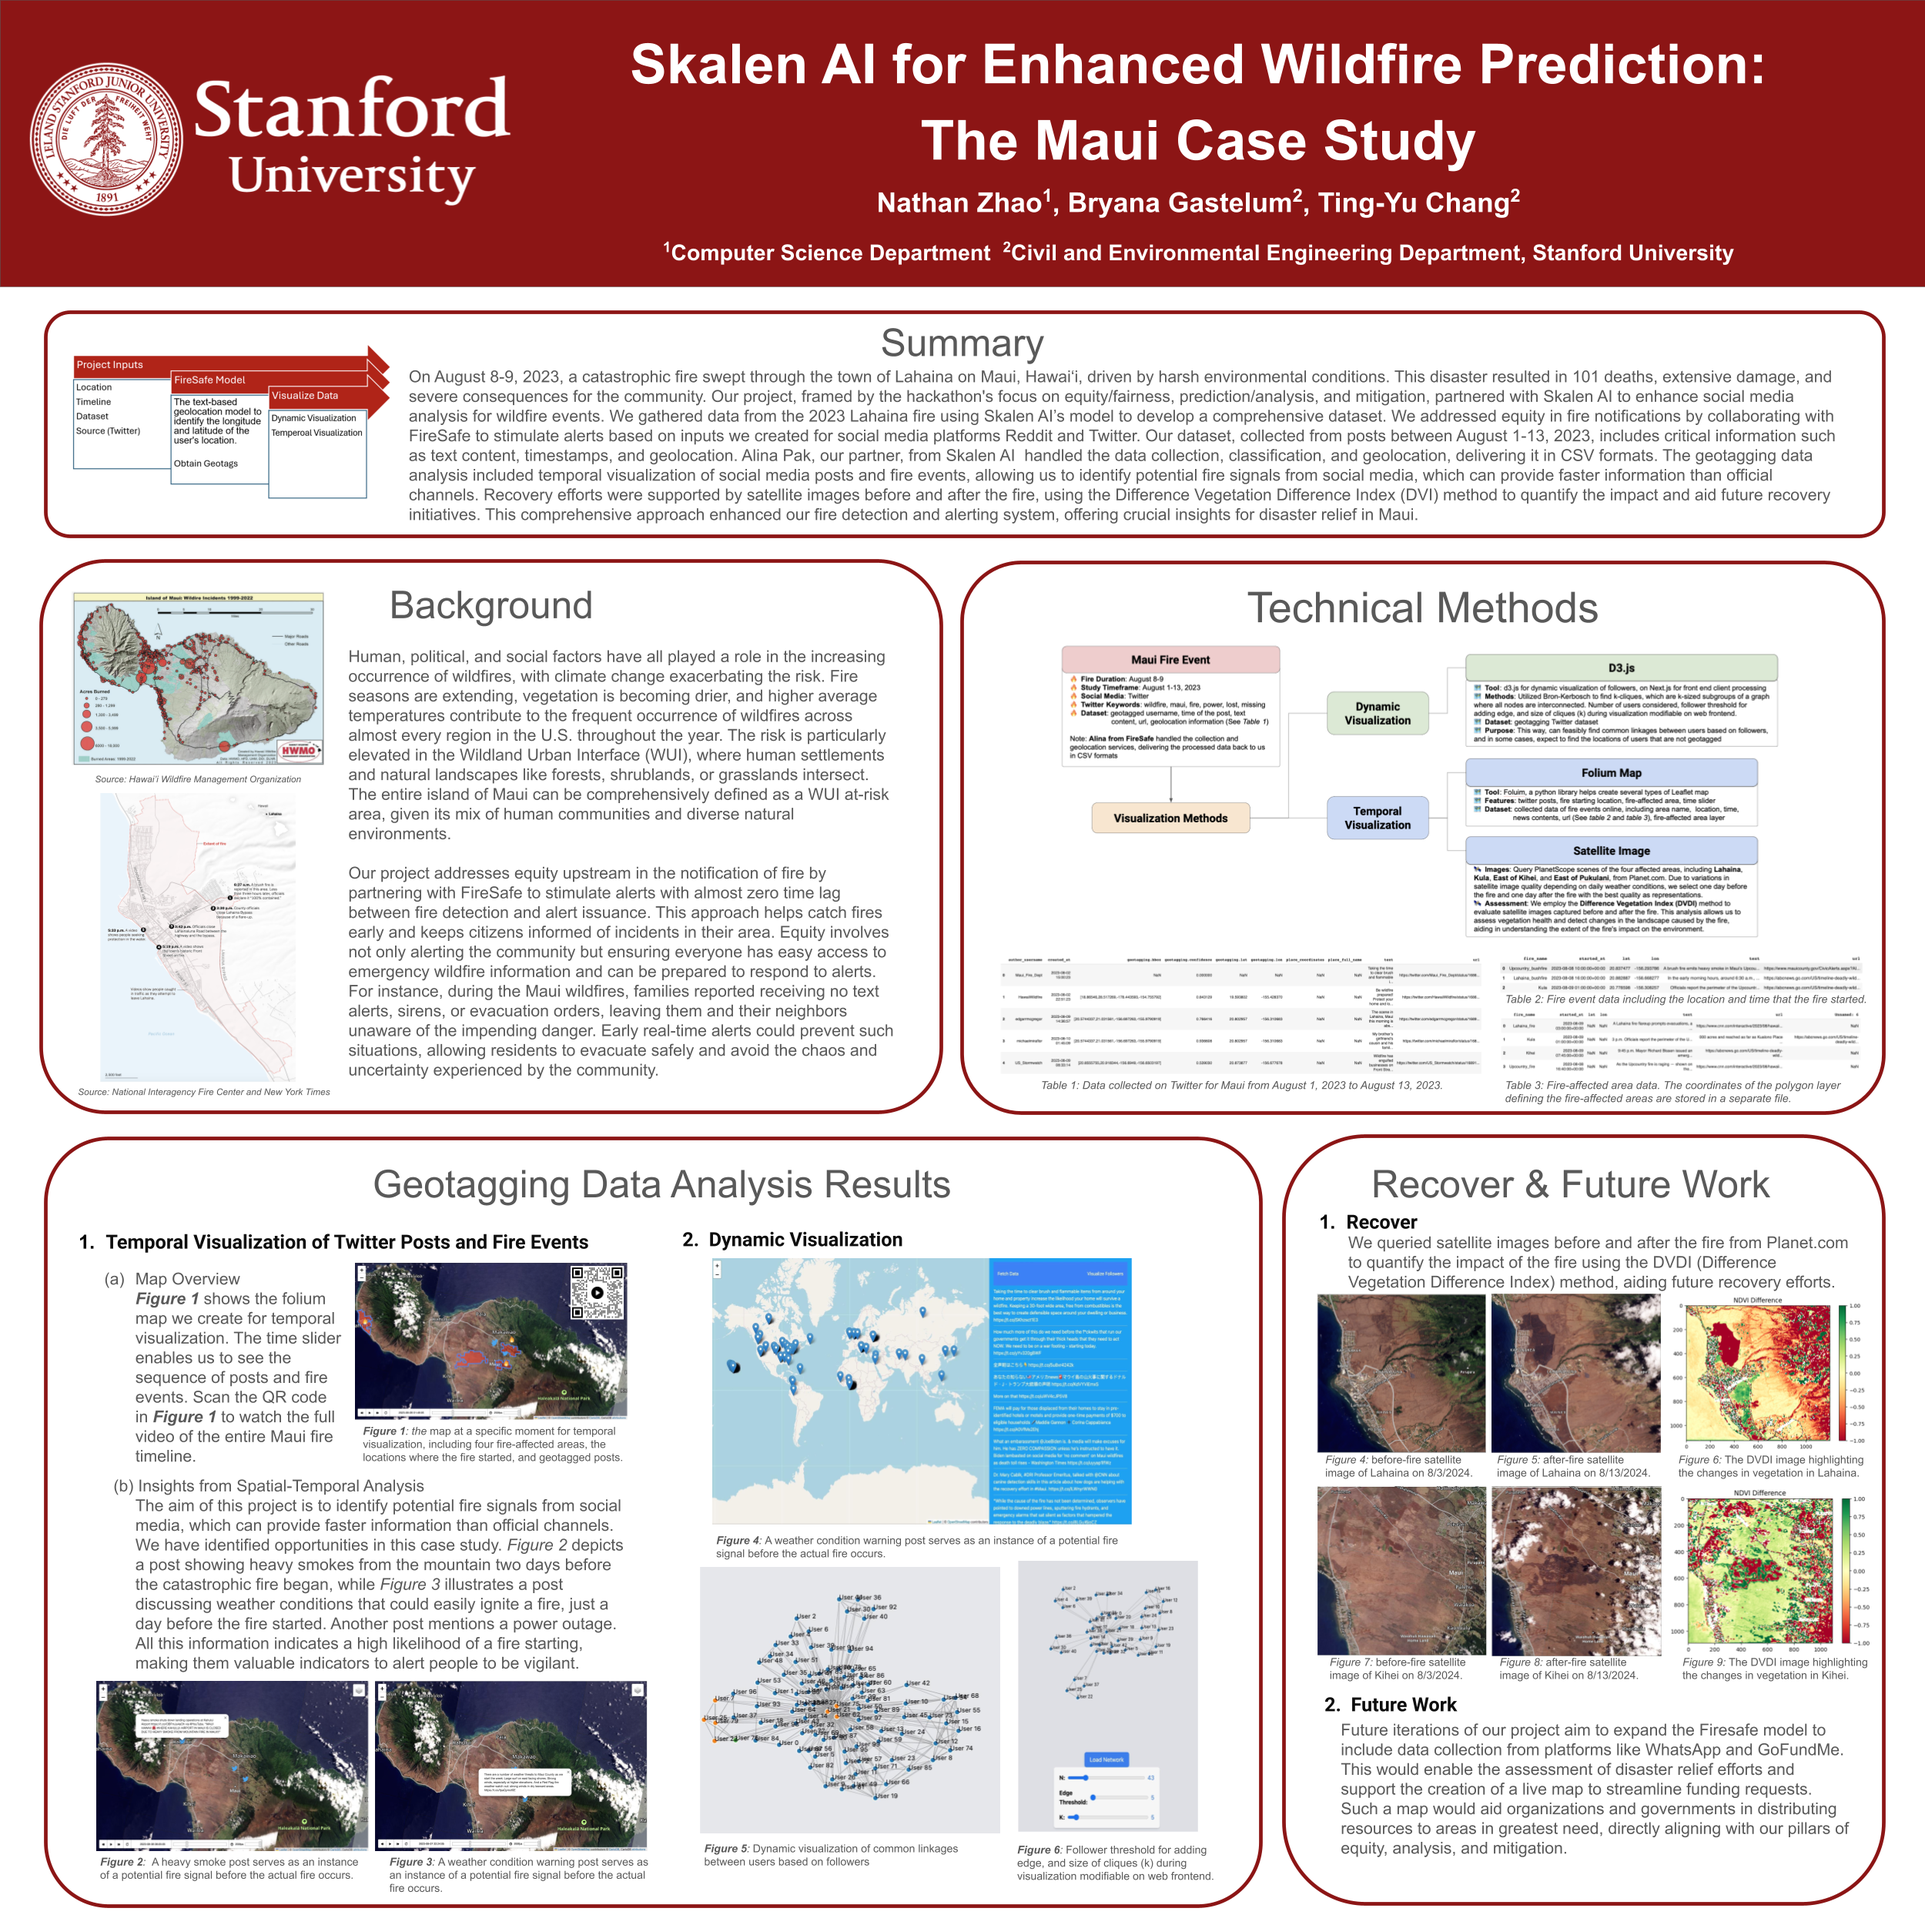
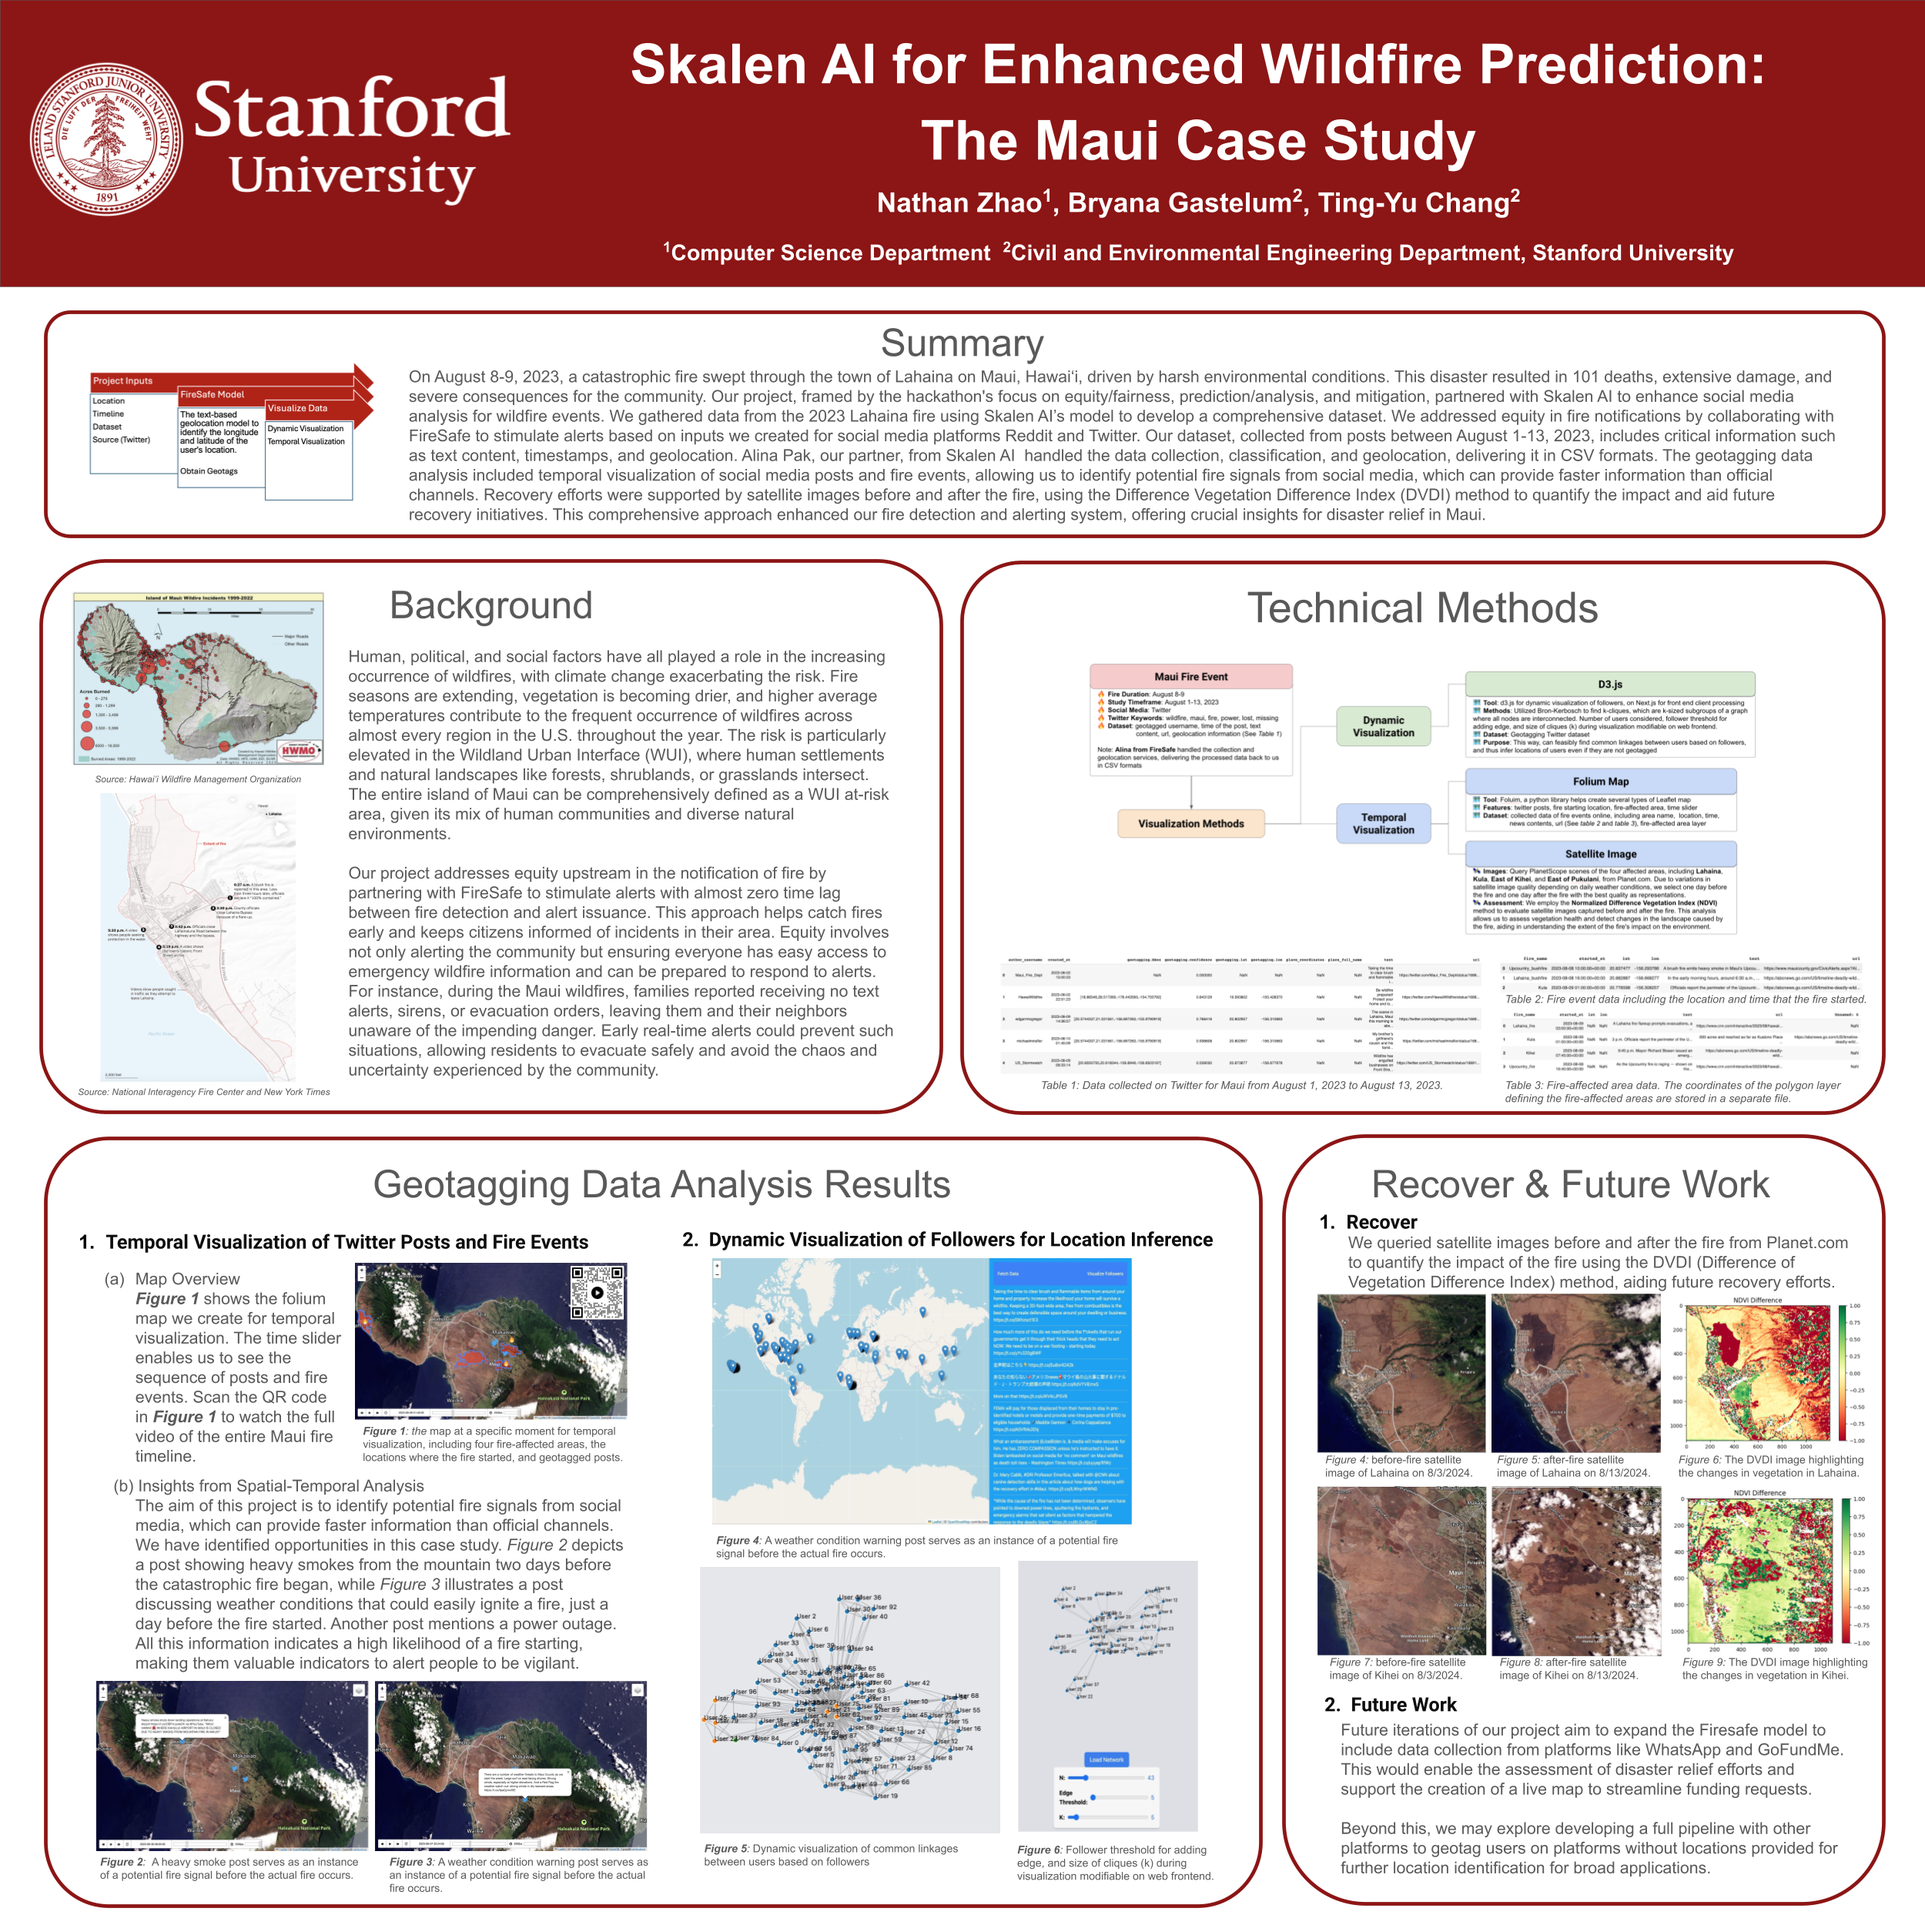
readme

diff --git a/README.md b/README.md
@@ -1,12 +1,14 @@
+![Big Earth Hackathon Poster](./public/Final%20Big%20Earth%20Hackathon%20Poster.png)
+
 # Skalen AI for Enhanced Wildfire Prediction: The Maui Case Study
 
-Utilizing geotagging and graph theory to detect fires early. In this preliminary study, we analyzed the fire during Auguest 8-9, 2023 that affected Lahaina in Maui.
+Utilizing geotagging and graph theory for inferring community linkages to detect fires early. In this preliminary study, we analyzed the fire during Auguest 8-9, 2023 that affected Lahaina in Maui.
 
-![Big Earth Hackathon Poster](./public/Final%20Big%20Earth%20Hackathon%20Poster.png)
+Big thanks to Derek Fong for his mentorship surrounding broad wildfire-related issues and applications, and thanks to Alina Pak for helping us with working with geotagged social media data!
 
 ## Project Details
 
-Our dataset is derived from a large volume of Twitter data. We processed these tweets, focusing on those containing specific keywords related to wildfires. The data includes the geotagged username, time of the post, text content, url, and crucially, geolocation information. The geotagging was performed using the **Skalen AI's** geotagging model in partnership with its creator, Alina Pak.
+Our dataset is derived from a large volume of Twitter data. We processed these tweets, focusing on those containing specific keywords related to wildfires. The data includes the geotagged username, time of the post, text content, url, and crucially, geolocation information. The geotagging was performed using the **Skalen AI's** geotagging model.
 
 - 🔥 **Fire Duration**: August 8-9
 - 📅 **Study Timeframe**: August 1-13, 2023 (for pre-fire + post-fire study)
@@ -22,9 +24,9 @@ Beyond data geolocated from Twitter, we also utilized satellite data to compare 
 
 ### Follower-based Analysis
 
-- 🛠 **Tool**: d3.js for dynamic visualization of followers, on Next.js for front end client processing
+- 🛠 **Tool**: d3.js and Next.js
 - 🔬 **Methods**: Utilized Bron-Kerbosch to find k-cliques, which are k-sized subgroups of a graph where all nodes are interconnected. Number of users considered, follower threshold for adding edge, and size of cliques (k) during visualization modifiable on web frontend.
-- 📊 **Dataset**: geotagging Twitter dataset
+- 📊 **Dataset**: Geotagging Twitter dataset
 
 ### Timescale Analysis
 
